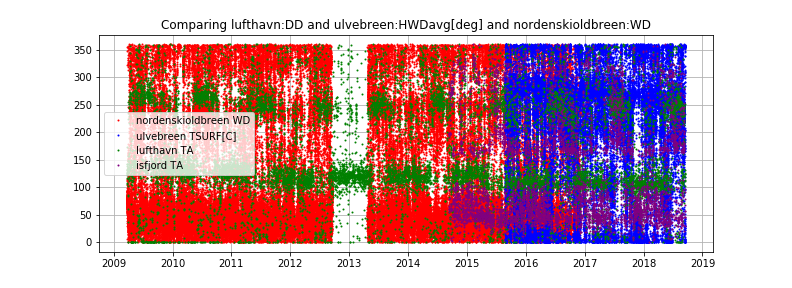
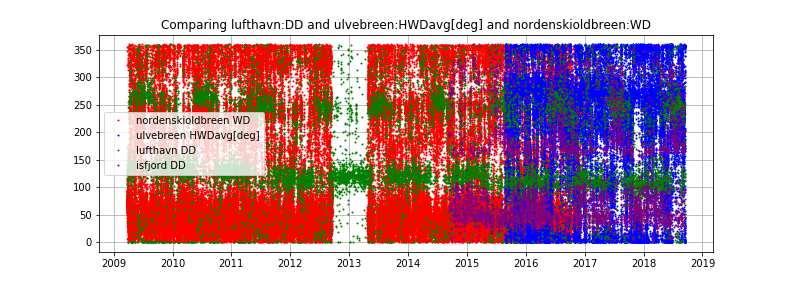
fixed comparing

Changed region(s): [[0.1818, 0.375, 0.3333, 0.625], [0.2121, 0.5625, 0.2424, 0.5938]]

diff --git a/comparing.py b/comparing.py
@@ -35,10 +35,10 @@ for k, j in enumerate(listnorden): norden["{0}".format(j)]=np.load("Nordenskiold
 for l in range(k+1):
     fig=plt.figure(1, figsize=(11, 4))
     plt.plot(daten, norden[listnorden[l]], '.', color='red', markersize = 2, label="nordenskioldbreen "+listnorden[l])
-    plt.plot(dateu, ulve[listulven[l]], '.', color='blue', markersize = 2, label="ulvebreen "+listulven[0])
+    plt.plot(dateu, ulve[listulven[l]], '.', color='blue', markersize = 2, label="ulvebreen "+listulven[l])
     if l < (len(listluft)):
-        plt.plot(datel, luft[listluft[l]], '.', color='green', markersize = 2, label="lufthavn "+listluft[0])
-        plt.plot(datei, isfj[listluft[l]], '.', color='purple', markersize = 2, label="isfjord "+listluft[0])
+        plt.plot(datel, luft[listluft[l]], '.', color='green', markersize = 2, label="lufthavn "+listluft[l])
+        plt.plot(datei, isfj[listluft[l]], '.', color='purple', markersize = 2, label="isfjord "+listluft[l])
         plt.title("Comparing lufthavn:"+listluft[l]+" and ulvebreen:"+listulven[l]+" and nordenskioldbreen:"+listnorden[l])
     else: plt.title("Comparing ulvebreen:"+listulven[l]+" and nordenskioldbreen:"+listnorden[l])
     plt.grid(True); plt.legend(); plt.show();# show plot on screen
@@ -75,11 +75,11 @@ for k, j in enumerate(listnorden):
 for l in range(k+1):
     fig=plt.figure(1, figsize=(11, 4))
     plt.plot(norden[listnorden[l]+'day'], norden[listnorden[l]], '.', color='red', markersize = 2, label="nordenskioldbreen "+listnorden[l])
-    plt.plot(ulve[listulven[l]+'day'], ulve[listulven[l]], '.', color='blue', markersize = 2, label="ulvebreen "+listulven[0])
+    plt.plot(ulve[listulven[l]+'day'], ulve[listulven[l]], '.', color='blue', markersize = 2, label="ulvebreen "+listulven[l])
     if l < (len(listluft)):
-        plt.plot(isfj[listluft[l]+'day'], isfj[listluft[l]], '.', color='purple', markersize = 2, label="nordenskioldbreen "+listnorden[l])
-        plt.plot(luft[listluft[l]+'day'], luft[listluft[l]], '.', color='green', markersize = 2, label="ulvebreen "+listulven[0])
-        plt.title("Comparing average ulvebreen:"+listulven[l]+" and nordenskioldbreen:"+listnorden[l]+"luft/isfjord:"+listluft[l])
+        plt.plot(isfj[listluft[l]+'day'], isfj[listluft[l]], '.', color='purple', markersize = 2, label="isfjord "+listluft[l])
+        plt.plot(luft[listluft[l]+'day'], luft[listluft[l]], '.', color='green', markersize = 2, label="lufthavn "+listluft[l])
+        plt.title("Comparing average ulvebreen:"+listulven[l]+" and nordenskioldbreen:"+listnorden[l]+"  luft/isfjord:"+listluft[l])
     else: plt.title("Comparing average ulvebreen:"+listulven[l]+" and nordenskioldbreen:"+listnorden[l])
     plt.grid(True); plt.legend(); plt.show();# show plot on screen
     fig.savefig("Figures/compare/compare_avg_n"+listnorden[l]+"_u"+listulven[l]+".png")

diff --git a/PCA.py b/PCA.py
@@ -1,0 +1,33 @@
+# -*- coding: utf-8 -*-
+"""
+Created on Wed Jan 10 16:46:32 2018
+
+@author: 
+"""
+
+import numpy as np
+from scipy import linalg as LA
+
+n1=-0.4
+n2=-0.02
+n3=0.31
+
+matrix = np.array([[1,n1,n2],
+                   [n1,1,n3],
+                   [n2,n3,1]])
+    
+print(matrix)
+e_vals, e_vecs = LA.eig(matrix)
+print("eigenvalues: ",e_vals)
+print("Eigenvalue 1 = ", max(e_vals.real))
+print("Eigenvalue 2 = ", np.median(e_vals.real))
+print("Eigenvalue 3 = ", min(e_vals.real))
+print("Variance of total data:")
+print("Eigenvalue 1 = ", max(e_vals.real)/3*100)
+print("Eigenvalue 2 = ", np.median(e_vals.real)/3*100)
+print("Eigenvalue 3 = ", min(e_vals.real)/3*100)
+print("eigenvectors: ",e_vecs)
+
+print("number 1:", e_vecs[0,0], e_vecs[1,0], e_vecs[2,0])
+print("number 2:", e_vecs[0,1], e_vecs[1,1], e_vecs[2,1])
+print("number 3:", e_vecs[0,2], e_vecs[1,2], e_vecs[2,2])
